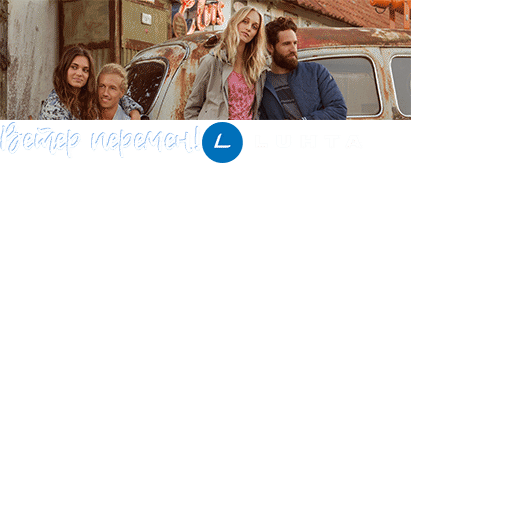
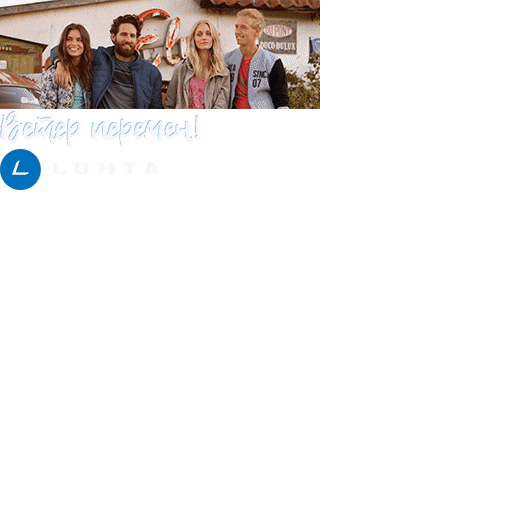
Update

Changed region(s): [[0.0, 0.0, 0.8125, 0.375]]

diff --git a/out/google/320x50/320x50.html b/out/google/320x50/320x50.html
@@ -18,7 +18,7 @@
 (function (lib, img, cjs, ss, an) {
 var p; // shortcut to reference prototypes
 lib.ssMetadata = [
-		{name:"320x50_atlas_", frames: [[0,0,411,120],[202,122,160,41],[0,122,200,36]]}
+		{name:"320x50_atlas_", frames: [[0,0,320,109],[0,149,160,41],[0,111,200,36]]}
 ];
 // symbols:
 (lib._1 = function() {
@@ -60,7 +60,7 @@ function getMCSymbolPrototype(symbol, nominalBounds, frameBounds) {
[1 lines of base64/hex data omitted]
 	this.shape_1.setTransform(-16.5,4.7,0.947,0.947,1);
 	this.timeline.addTween(cjs.Tween.get(this.shape_1).wait(1));
-}).prototype = getMCSymbolPrototype(lib.sdfsdf7, new cjs.Rectangle(-142.2,-28.2,251.4,64.6), null);
+}).prototype = getMCSymbolPrototype(lib.sdfsdf7, new cjs.Rectangle(-142.2,-28.2,251.4,85), null);
 (lib.sdff9 = function(mode,startPosition,loop) {
 	this.initialize(mode,startPosition,loop,{});
 	// Слой 2
@@ -77,14 +77,14 @@ function getMCSymbolPrototype(symbol, nominalBounds, frameBounds) {
 	this.instance.setTransform(-80,-21);
 	this.timeline.addTween(cjs.Tween.get(this.instance).wait(1));
 }).prototype = getMCSymbolPrototype(lib.dfsd8, new cjs.Rectangle(-80,-21,160,41), null);
-(lib.dfdsfs = function(mode,startPosition,loop) {
+(lib.Символ1 = function(mode,startPosition,loop) {
 	this.initialize(mode,startPosition,loop,{});
-	// Слой 2
+	// Слой 1
 	this.instance = new lib._1();
 	this.instance.parent = this;
-	this.instance.setTransform(-247,-250);
+	this.instance.setTransform(-175,-48);
 	this.timeline.addTween(cjs.Tween.get(this.instance).wait(1));
-}).prototype = getMCSymbolPrototype(lib.dfdsfs, new cjs.Rectangle(-247,-250,411,120), null);
+}).prototype = getMCSymbolPrototype(lib.Символ1, new cjs.Rectangle(-175,-48,320,109), null);
 // stage content:
 (lib._320x50 = function(mode,startPosition,loop) {
 	this.initialize(mode,startPosition,loop,{});
@@ -129,27 +129,16 @@ function getMCSymbolPrototype(symbol, nominalBounds, frameBounds) {
 	mask._off = true;
 	mask.graphics.p("A4/D6IAAnzMAx/AAAIAAHzg");
 	mask.setTransform(160,25);
-	// Слой 3
-	this.instance_3 = new lib.dfdsfs();
+	// Слой 4
+	this.instance_3 = new lib.Символ1();
 	this.instance_3.parent = this;
-	this.instance_3.setTransform(189.1,240);
+	this.instance_3.setTransform(175,8);
 	this.instance_3.alpha = 0;
-	this.instance_3._off = true;
 	var maskedShapeInstanceList = [this.instance_3];
 	for(var shapedInstanceItr = 0; shapedInstanceItr < maskedShapeInstanceList.length; shapedInstanceItr++) {
 		maskedShapeInstanceList[shapedInstanceItr].mask = mask;
 	}
-	this.timeline.addTween(cjs.Tween.get(this.instance_3).wait(83).to({_off:false},0).to({x:187.3,alpha:1},5).to({x:159},76).to({x:157.1,alpha:0},5).wait(1));
-	// Слой 1
-	this.instance_4 = new lib.dfdsfs();
-	this.instance_4.parent = this;
-	this.instance_4.setTransform(207,200);
-	this.instance_4.alpha = 0;
-	var maskedShapeInstanceList = [this.instance_4];
-	for(var shapedInstanceItr = 0; shapedInstanceItr < maskedShapeInstanceList.length; shapedInstanceItr++) {
-		maskedShapeInstanceList[shapedInstanceItr].mask = mask;
-	}
-	this.timeline.addTween(cjs.Tween.get(this.instance_4).to({x:205.6,alpha:1},5).to({x:178.7},75).to({x:177.3,alpha:0},6).to({_off:true},1).wait(83));
+	this.timeline.addTween(cjs.Tween.get(this.instance_3).to({y:9.4,alpha:1},6).to({y:46.6},157).to({y:48,alpha:0},6).wait(1));
 	// Слой 6
 	this.shape_1 = new cjs.Shape();
 	this.shape_1.graphics.f("#FFFFFF").s().p("A4/D6IAAnzMAx/AAAIAAHzg");
@@ -161,11 +150,11 @@ p.nominalBounds = new cjs.Rectangle(159,24,322,52);
 lib.properties = {
 	width: 320,
 	height: 50,
-	fps: 24,
+	fps: 30,
 	color: "#FFFFFF",
 	opacity: 1.00,
 	manifest: [
-		{src:"images/320x50_atlas_.png?1487022136318", id:"320x50_atlas_"}
+		{src:"images/320x50_atlas_.png?1487091950935", id:"320x50_atlas_"}
 	],
 	preloads: []
 };

diff --git a/out/google/468х60/468х60.html b/out/google/468х60/468х60.html
@@ -18,7 +18,7 @@
 (function (lib, img, cjs, ss, an) {
 var p; // shortcut to reference prototypes
 lib.ssMetadata = [
-		{name:"468х60_atlas_", frames: [[0,0,500,146],[202,148,160,41],[0,148,200,36]]}
+		{name:"468х60_atlas_", frames: [[0,0,470,128],[202,130,160,41],[0,130,200,36]]}
 ];
 // symbols:
 (lib._1 = function() {
@@ -60,7 +60,7 @@ function getMCSymbolPrototype(symbol, nominalBounds, frameBounds) {
[1 lines of base64/hex data omitted]
 	this.shape_1.setTransform(-16.5,4.7,0.947,0.947,1);
 	this.timeline.addTween(cjs.Tween.get(this.shape_1).wait(1));
-}).prototype = getMCSymbolPrototype(lib.sdfsdf7, new cjs.Rectangle(-142.2,-28.2,251.4,64.6), null);
+}).prototype = getMCSymbolPrototype(lib.sdfsdf7, new cjs.Rectangle(-142.2,-28.2,251.4,85), null);
 (lib.sdff9 = function(mode,startPosition,loop) {
 	this.initialize(mode,startPosition,loop,{});
 	// Слой 2
@@ -77,14 +77,14 @@ function getMCSymbolPrototype(symbol, nominalBounds, frameBounds) {
 	this.instance.setTransform(-80,-21);
 	this.timeline.addTween(cjs.Tween.get(this.instance).wait(1));
 }).prototype = getMCSymbolPrototype(lib.dfsd8, new cjs.Rectangle(-80,-21,160,41), null);
-(lib.dfdsfs = function(mode,startPosition,loop) {
+(lib.Символ1 = function(mode,startPosition,loop) {
 	this.initialize(mode,startPosition,loop,{});
-	// Слой 2
+	// Слой 1
 	this.instance = new lib._1();
 	this.instance.parent = this;
-	this.instance.setTransform(-207,-270);
+	this.instance.setTransform(-175,-43);
 	this.timeline.addTween(cjs.Tween.get(this.instance).wait(1));
-}).prototype = getMCSymbolPrototype(lib.dfdsfs, new cjs.Rectangle(-207,-270,500,146), null);
+}).prototype = getMCSymbolPrototype(lib.Символ1, new cjs.Rectangle(-175,-43,470,128), null);
 // stage content:
 (lib._468х60 = function(mode,startPosition,loop) {
 	this.initialize(mode,startPosition,loop,{});
@@ -129,27 +129,16 @@ function getMCSymbolPrototype(symbol, nominalBounds, frameBounds) {
 	mask._off = true;
 	mask.graphics.p("EgkjAEsIAApXMBJHAAAIAAJXg");
 	mask.setTransform(234,30);
-	// Слой 3
-	this.instance_3 = new lib.dfdsfs();
+	// Слой 4
+	this.instance_3 = new lib.Символ1();
 	this.instance_3.parent = this;
-	this.instance_3.setTransform(199.1,255);
+	this.instance_3.setTransform(175,8);
 	this.instance_3.alpha = 0;
-	this.instance_3._off = true;
 	var maskedShapeInstanceList = [this.instance_3];
 	for(var shapedInstanceItr = 0; shapedInstanceItr < maskedShapeInstanceList.length; shapedInstanceItr++) {
 		maskedShapeInstanceList[shapedInstanceItr].mask = mask;
 	}
-	this.timeline.addTween(cjs.Tween.get(this.instance_3).wait(83).to({_off:false},0).to({x:197.3,alpha:1},5).to({x:180},76).to({x:175.1,alpha:0},5).wait(1));
-	// Слой 1
-	this.instance_4 = new lib.dfdsfs();
-	this.instance_4.parent = this;
-	this.instance_4.setTransform(207,200);
-	this.instance_4.alpha = 0;
-	var maskedShapeInstanceList = [this.instance_4];
-	for(var shapedInstanceItr = 0; shapedInstanceItr < maskedShapeInstanceList.length; shapedInstanceItr++) {
-		maskedShapeInstanceList[shapedInstanceItr].mask = mask;
-	}
-	this.timeline.addTween(cjs.Tween.get(this.instance_4).to({x:205.6,alpha:1},5).to({x:178.7},75).to({x:177.3,alpha:0},6).to({_off:true},1).wait(83));
+	this.timeline.addTween(cjs.Tween.get(this.instance_3).to({y:9.4,alpha:1},6).to({y:46.6},157).to({y:48,alpha:0},6).wait(1));
 	// Слой 6
 	this.shape_1 = new cjs.Shape();
 	this.shape_1.graphics.f("#FFFFFF").s().p("EgkjAEsIAApXMBJHAAAIAAJXg");
@@ -165,7 +154,7 @@ lib.properties = {
 	color: "#FFFFFF",
 	opacity: 1.00,
 	manifest: [
-		{src:"images/468х60_atlas_.png?1487022461245", id:"468х60_atlas_"}
+		{src:"images/468х60_atlas_.png?1487092051956", id:"468х60_atlas_"}
 	],
 	preloads: []
 };

diff --git a/out/google/970х90/970х90.html b/out/google/970х90/970х90.html
@@ -18,7 +18,7 @@
 (function (lib, img, cjs, ss, an) {
 var p; // shortcut to reference prototypes
 lib.ssMetadata = [
-		{name:"970х90_atlas_", frames: [[0,0,970,269],[242,271,160,41],[0,271,240,44]]}
+		{name:"970х90_atlas_", frames: [[0,0,1020,149],[242,151,160,41],[0,151,240,44]]}
 ];
 // symbols:
 (lib._1 = function() {
@@ -60,7 +60,7 @@ function getMCSymbolPrototype(symbol, nominalBounds, frameBounds) {
[1 lines of base64/hex data omitted]
 	this.shape_1.setTransform(-16.5,4.7,0.947,0.947,1);
 	this.timeline.addTween(cjs.Tween.get(this.shape_1).wait(1));
-}).prototype = getMCSymbolPrototype(lib.sdfsdf7, new cjs.Rectangle(-142.2,-28.2,251.4,64.6), null);
+}).prototype = getMCSymbolPrototype(lib.sdfsdf7, new cjs.Rectangle(-142.2,-28.2,251.4,85), null);
 (lib.sdff9 = function(mode,startPosition,loop) {
 	this.initialize(mode,startPosition,loop,{});
 	// Слой 2
@@ -82,9 +82,9 @@ function getMCSymbolPrototype(symbol, nominalBounds, frameBounds) {
 	// Слой 2
 	this.instance = new lib._1();
 	this.instance.parent = this;
-	this.instance.setTransform(-206,-214);
+	this.instance.setTransform(-241,-192);
 	this.timeline.addTween(cjs.Tween.get(this.instance).wait(1));
-}).prototype = getMCSymbolPrototype(lib.dfdsfs, new cjs.Rectangle(-206,-214,970,269), null);
+}).prototype = getMCSymbolPrototype(lib.dfdsfs, new cjs.Rectangle(-241,-192,1020,149), null);
 // stage content:
 (lib._970х90 = function(mode,startPosition,loop) {
 	this.initialize(mode,startPosition,loop,{});
@@ -138,7 +138,7 @@ function getMCSymbolPrototype(symbol, nominalBounds, frameBounds) {
 	for(var shapedInstanceItr = 0; shapedInstanceItr < maskedShapeInstanceList.length; shapedInstanceItr++) {
 		maskedShapeInstanceList[shapedInstanceItr].mask = mask;
 	}
-	this.timeline.addTween(cjs.Tween.get(this.instance_3).to({y:193.4,alpha:1},7).to({x:206.1,y:44.8},157).to({x:206,y:40,alpha:0},5).wait(1));
+	this.timeline.addTween(cjs.Tween.get(this.instance_3).to({y:193.4,alpha:1},7).to({x:206.1,y:136.8},157).to({x:206,y:134,alpha:0},5).wait(1));
 	// Слой 6
 	this.shape_1 = new cjs.Shape();
 	this.shape_1.graphics.f("#FFFFFF").s().p("EhLxAHCIAAuDMCXjAAAIAAODg");
@@ -154,7 +154,7 @@ lib.properties = {
 	color: "#FFFFFF",
 	opacity: 1.00,
 	manifest: [
-		{src:"images/970х90_atlas_.png?1487022991508", id:"970х90_atlas_"}
+		{src:"images/970х90_atlas_.png?1487092260338", id:"970х90_atlas_"}
 	],
 	preloads: []
 };
